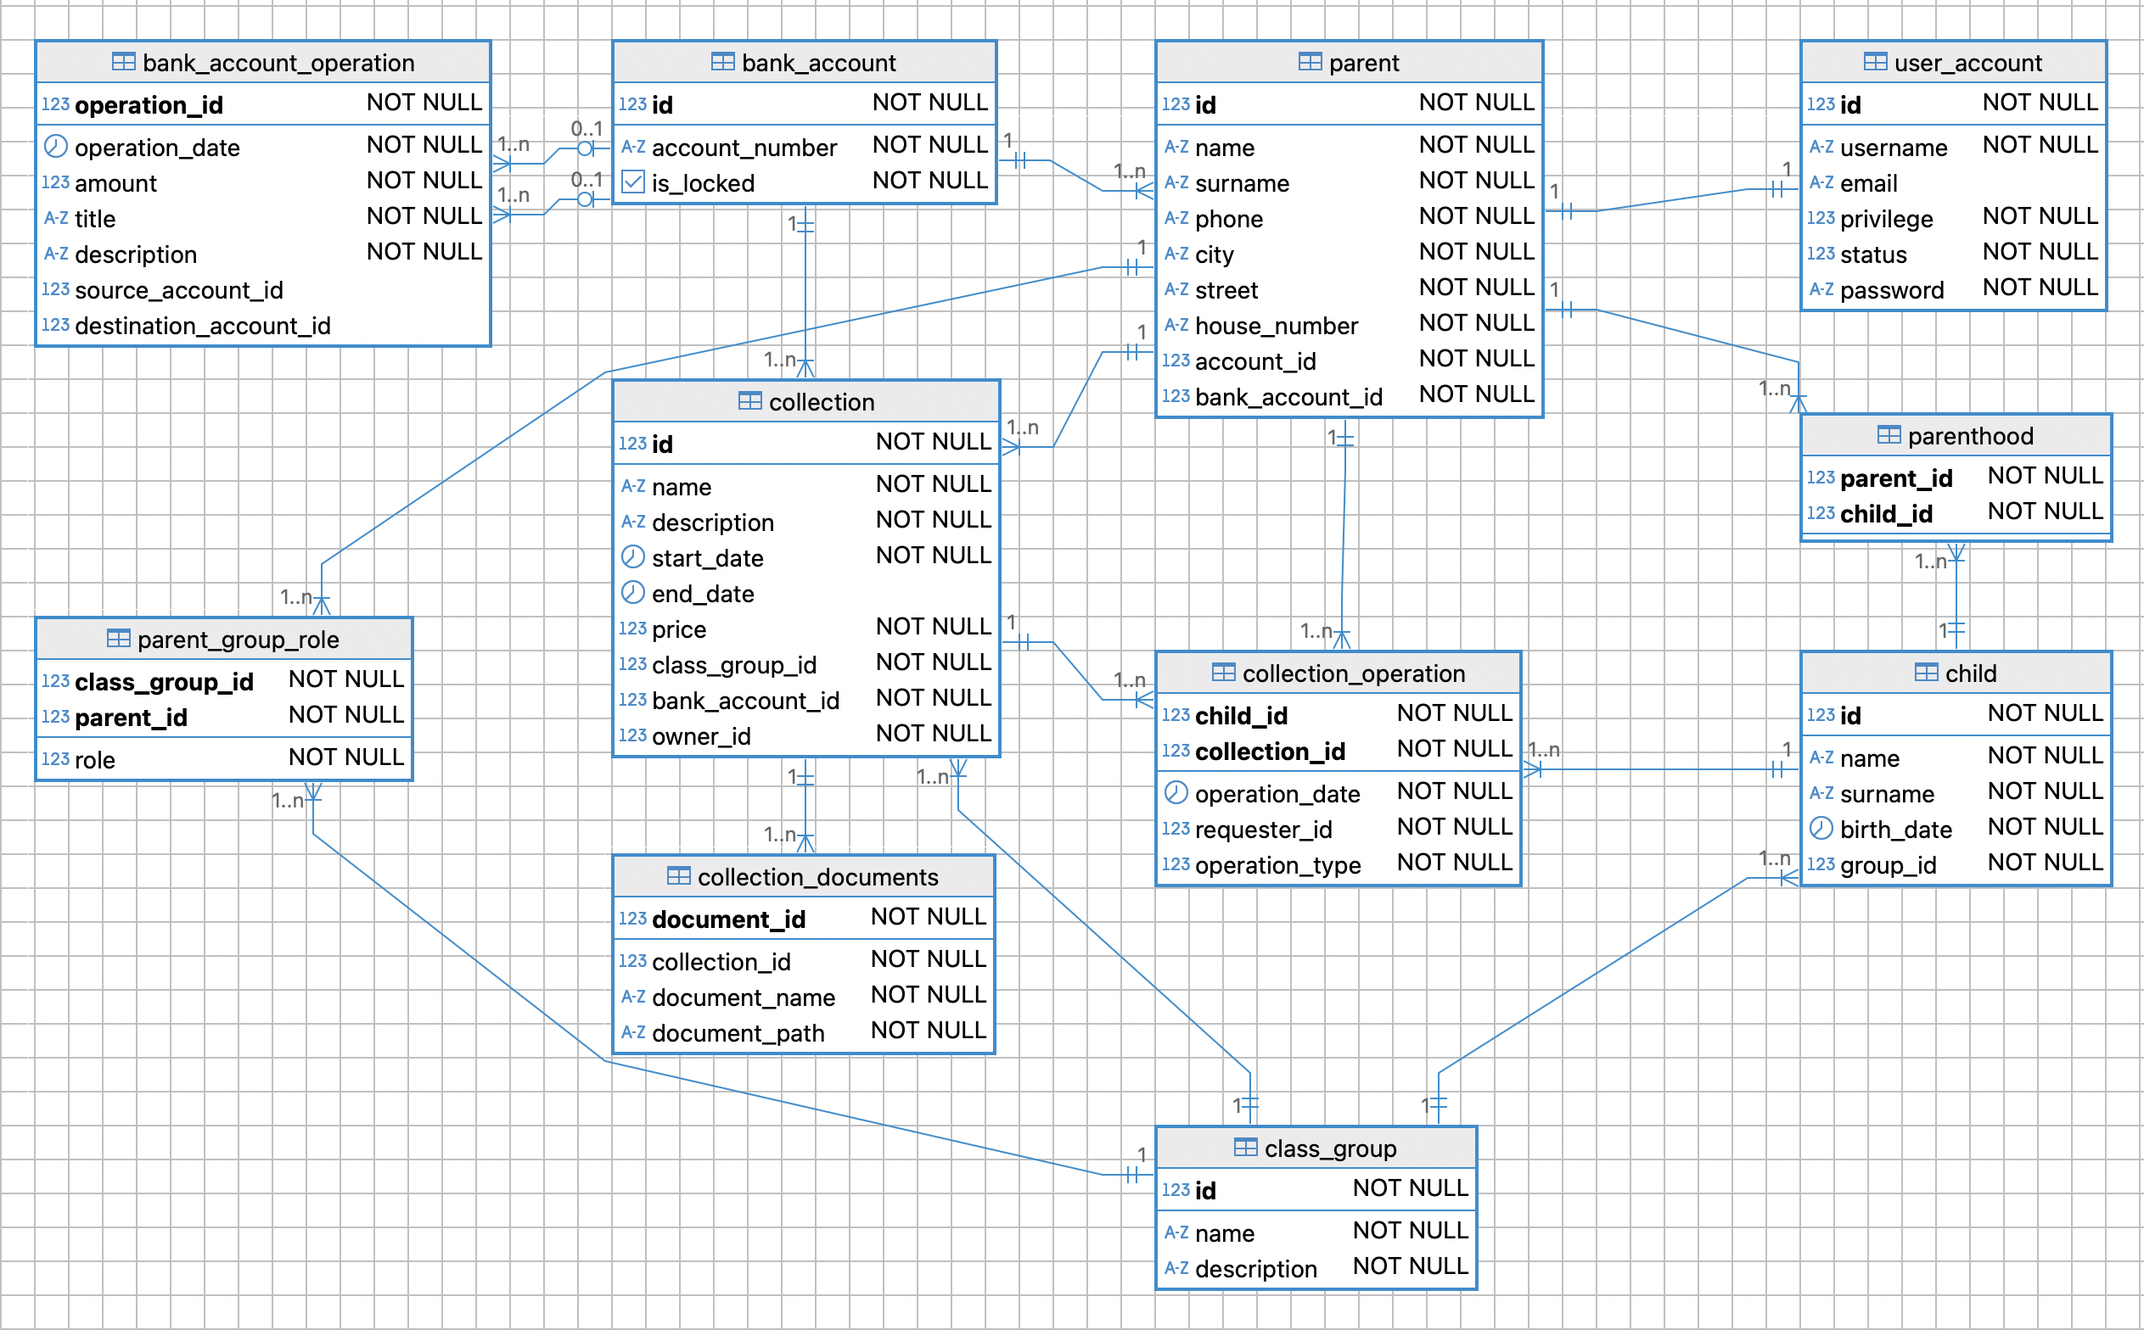
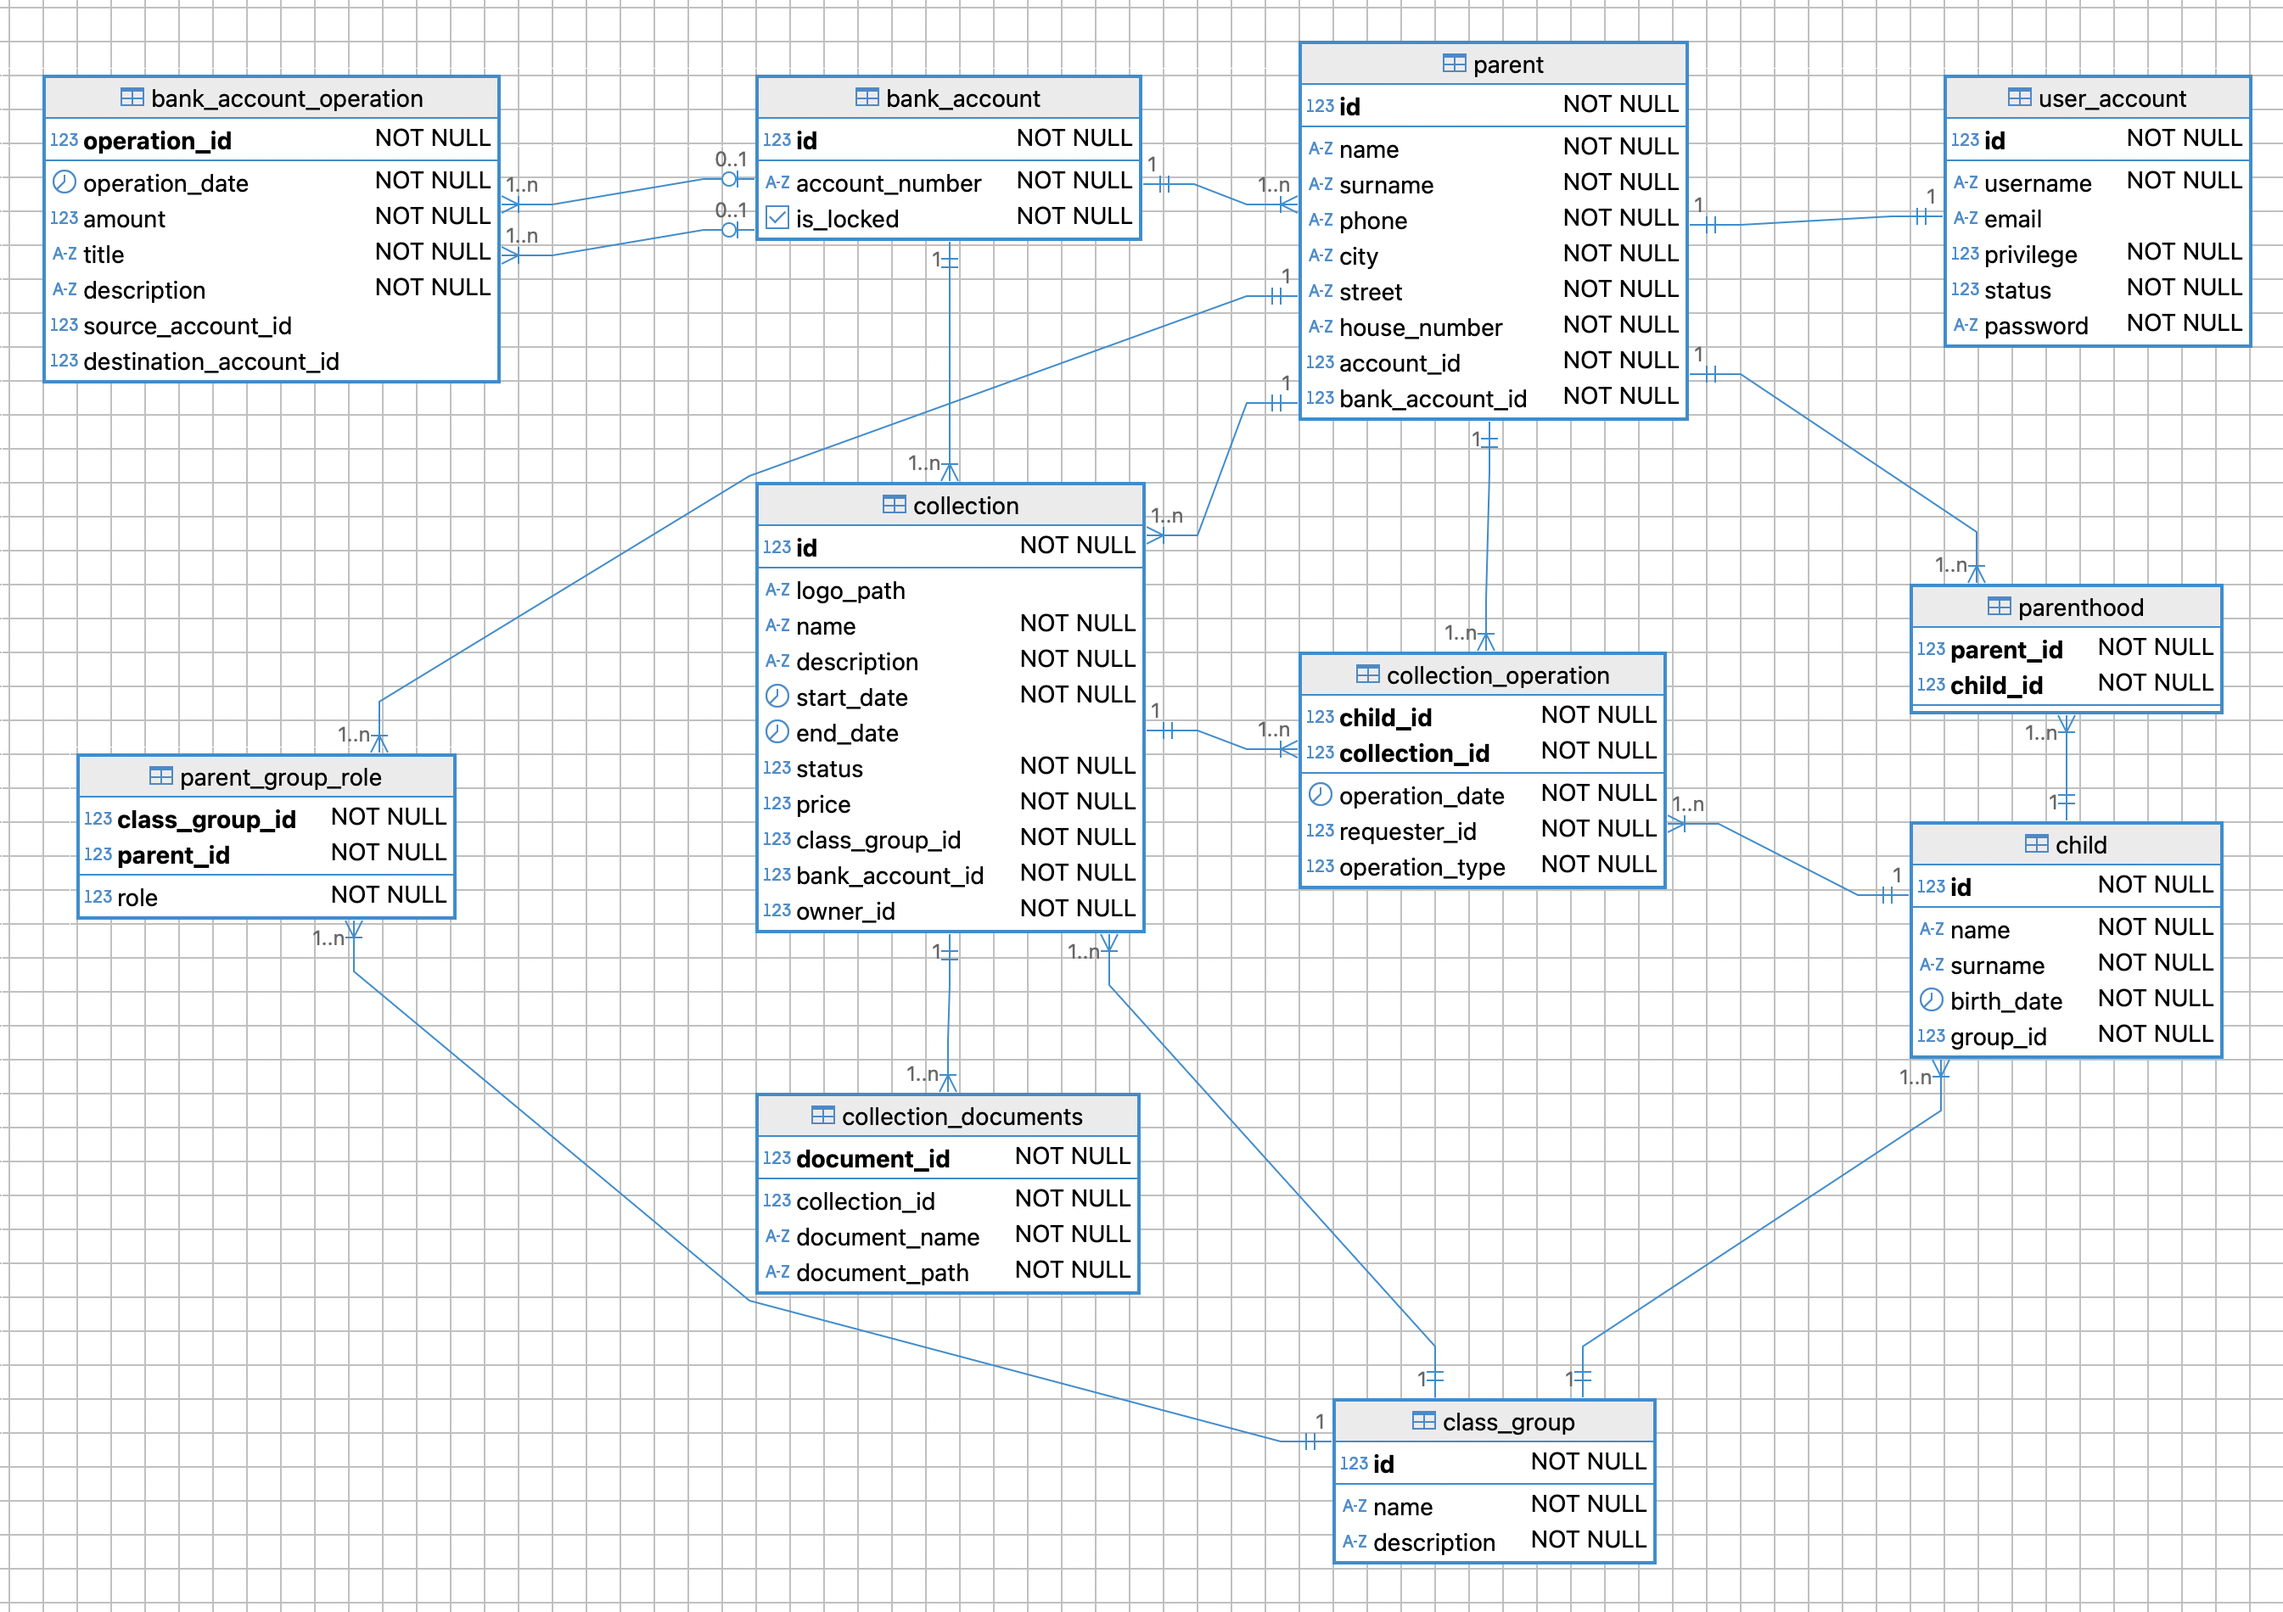
update schema

Changed region(s): [[0.0, 0.0, 1.0, 1.0]]

diff --git a/src/SQL/Tables/Collection.py b/src/SQL/Tables/Collection.py
@@ -1,5 +1,6 @@
 from sqlmodel import SQLModel, Field
 from datetime import date
+import src.SQL.Enum.CollectionStatus as CollectionStatus
 
 
 class Collection(SQLModel, table=True):
@@ -12,10 +13,12 @@ class Collection(SQLModel, table=True):
 
     __tablename__ = "collection"
     id: int = Field(primary_key=True)
+    logo_path: str = Field(nullable=True)
     name: str
     description: str
     start_date: date = Field(default=date.today())
     end_date: date | None
+    status: int = Field(default=CollectionStatus.OPEN)
     price: float
     class_group_id: int = Field(foreign_key="class_group.id")
     bank_account_id: int = Field(foreign_key="bank_account.id")

diff --git a/src/SQL/Enum/CollectionStatus.py b/src/SQL/Enum/CollectionStatus.py
@@ -1,0 +1,4 @@
+OPEN = 0
+FINISHED = 1
+NOT_PAID_BEFORE_DEADLINE = 2
+CANCELLED = 3
